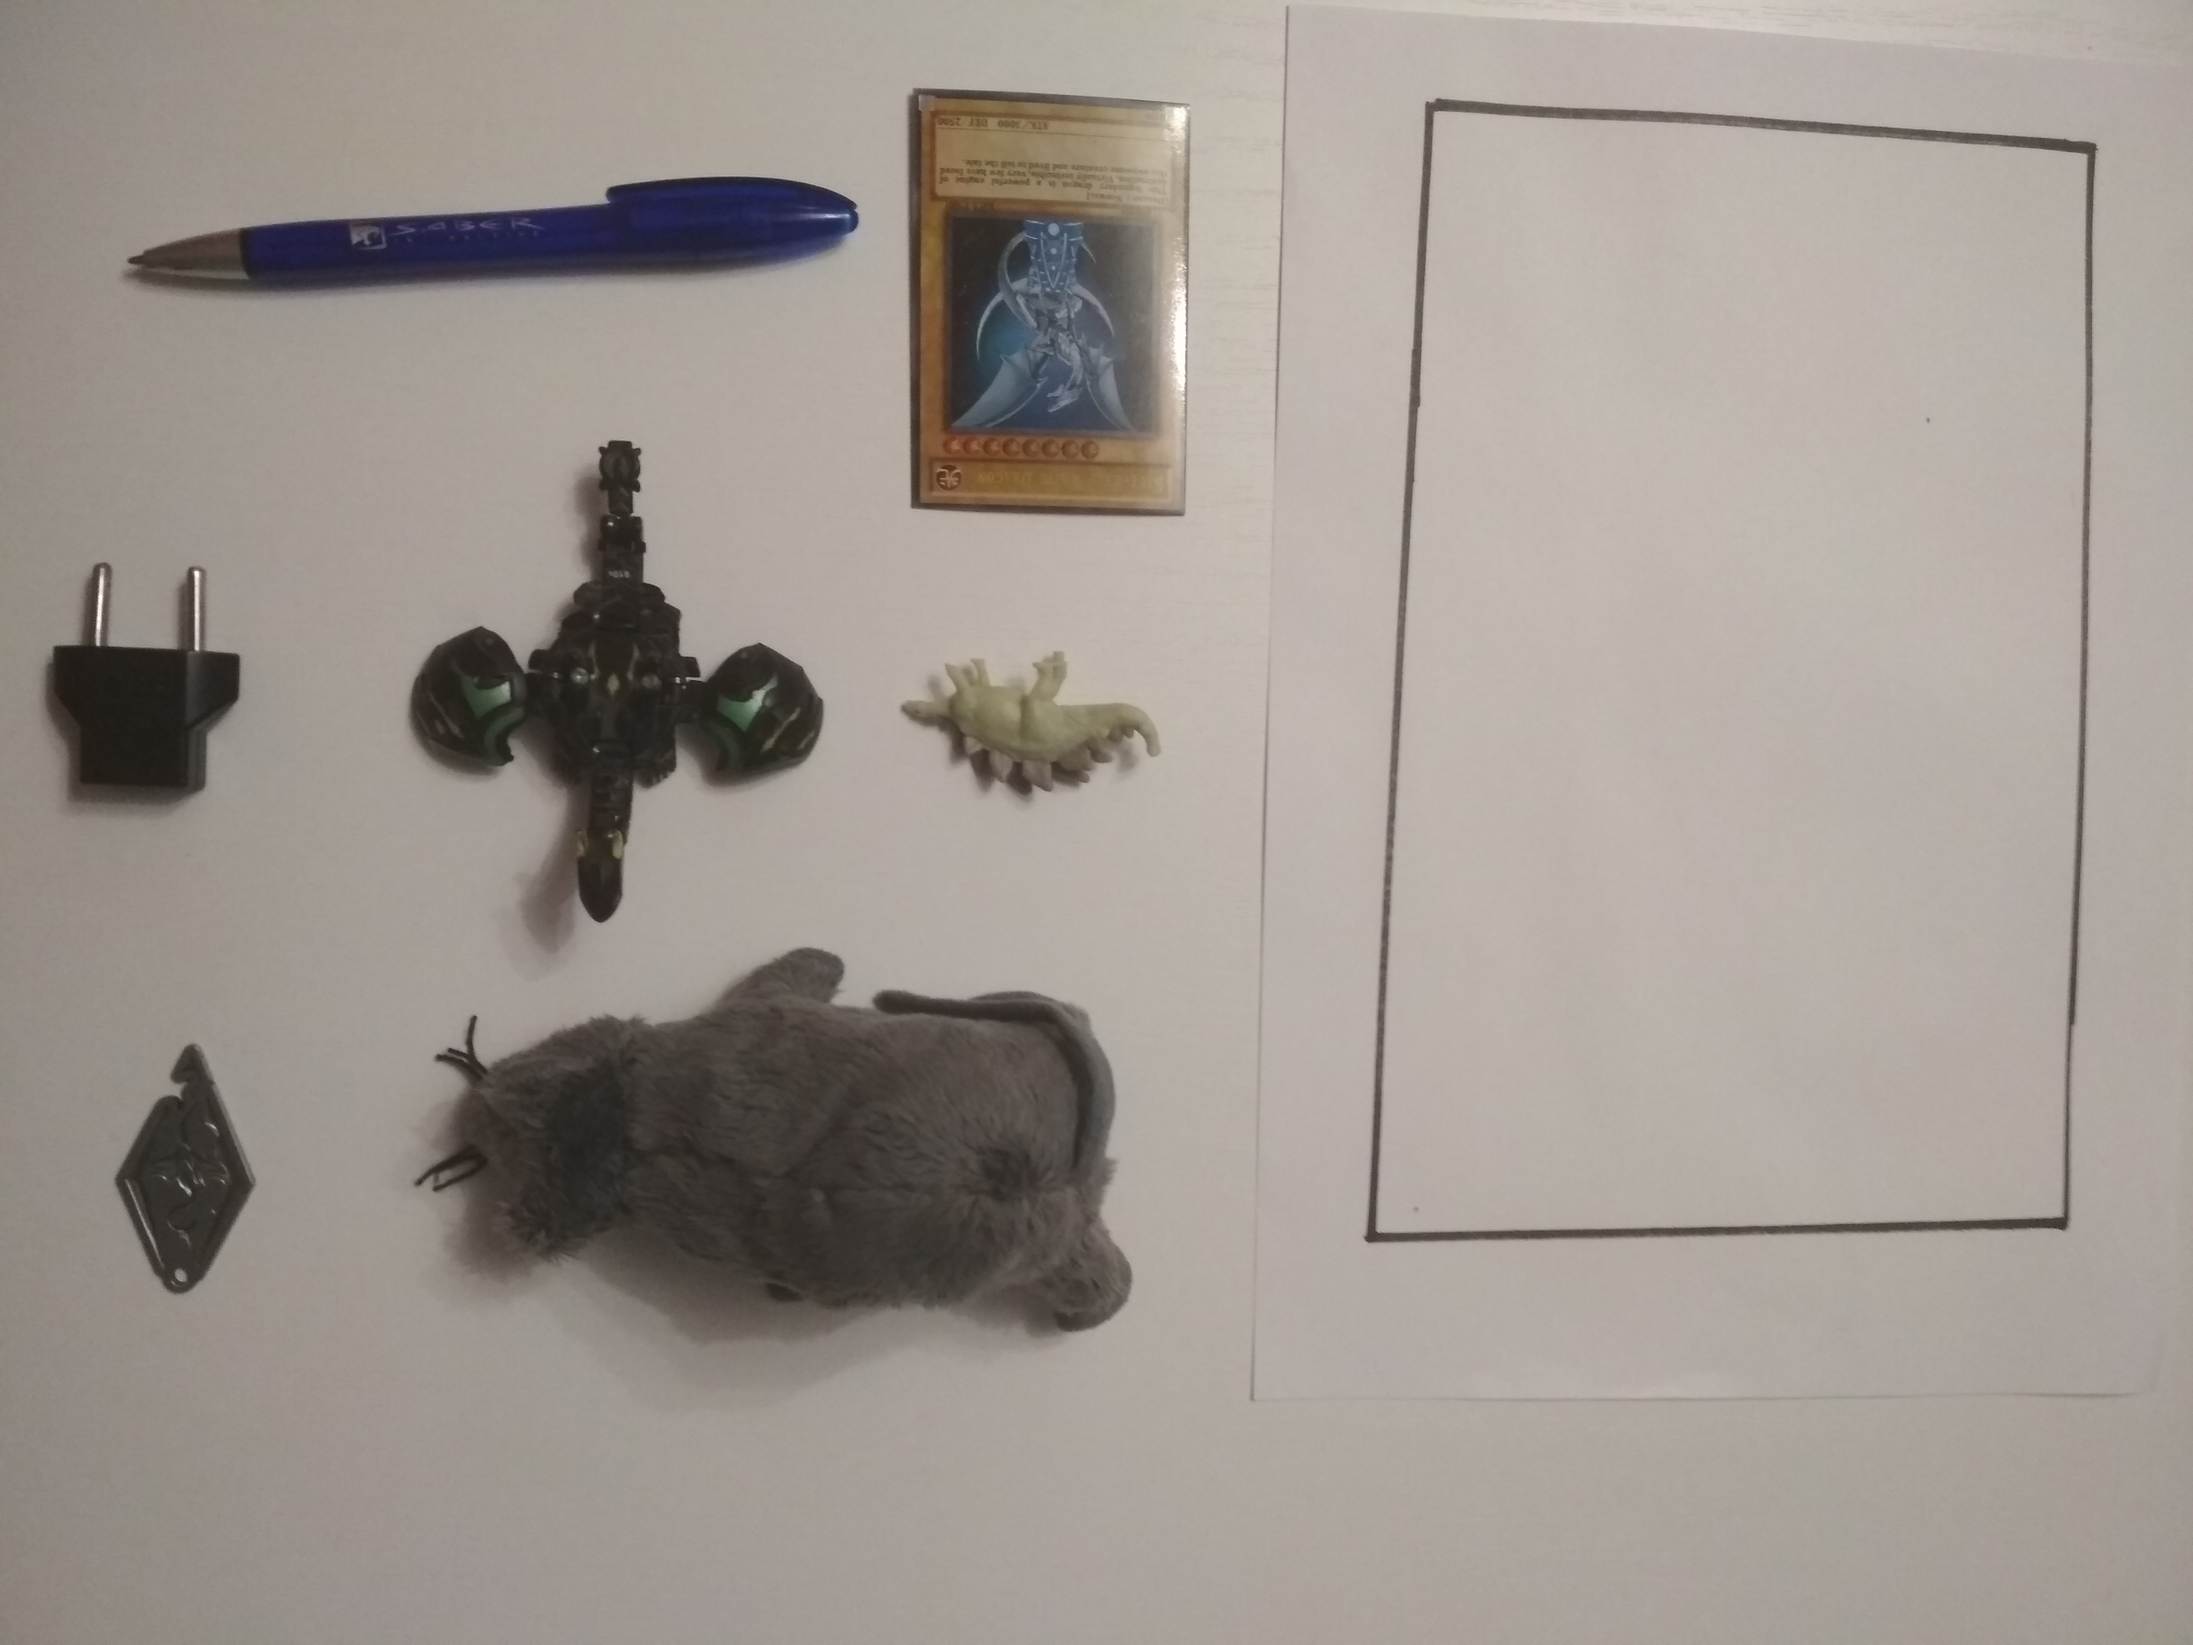
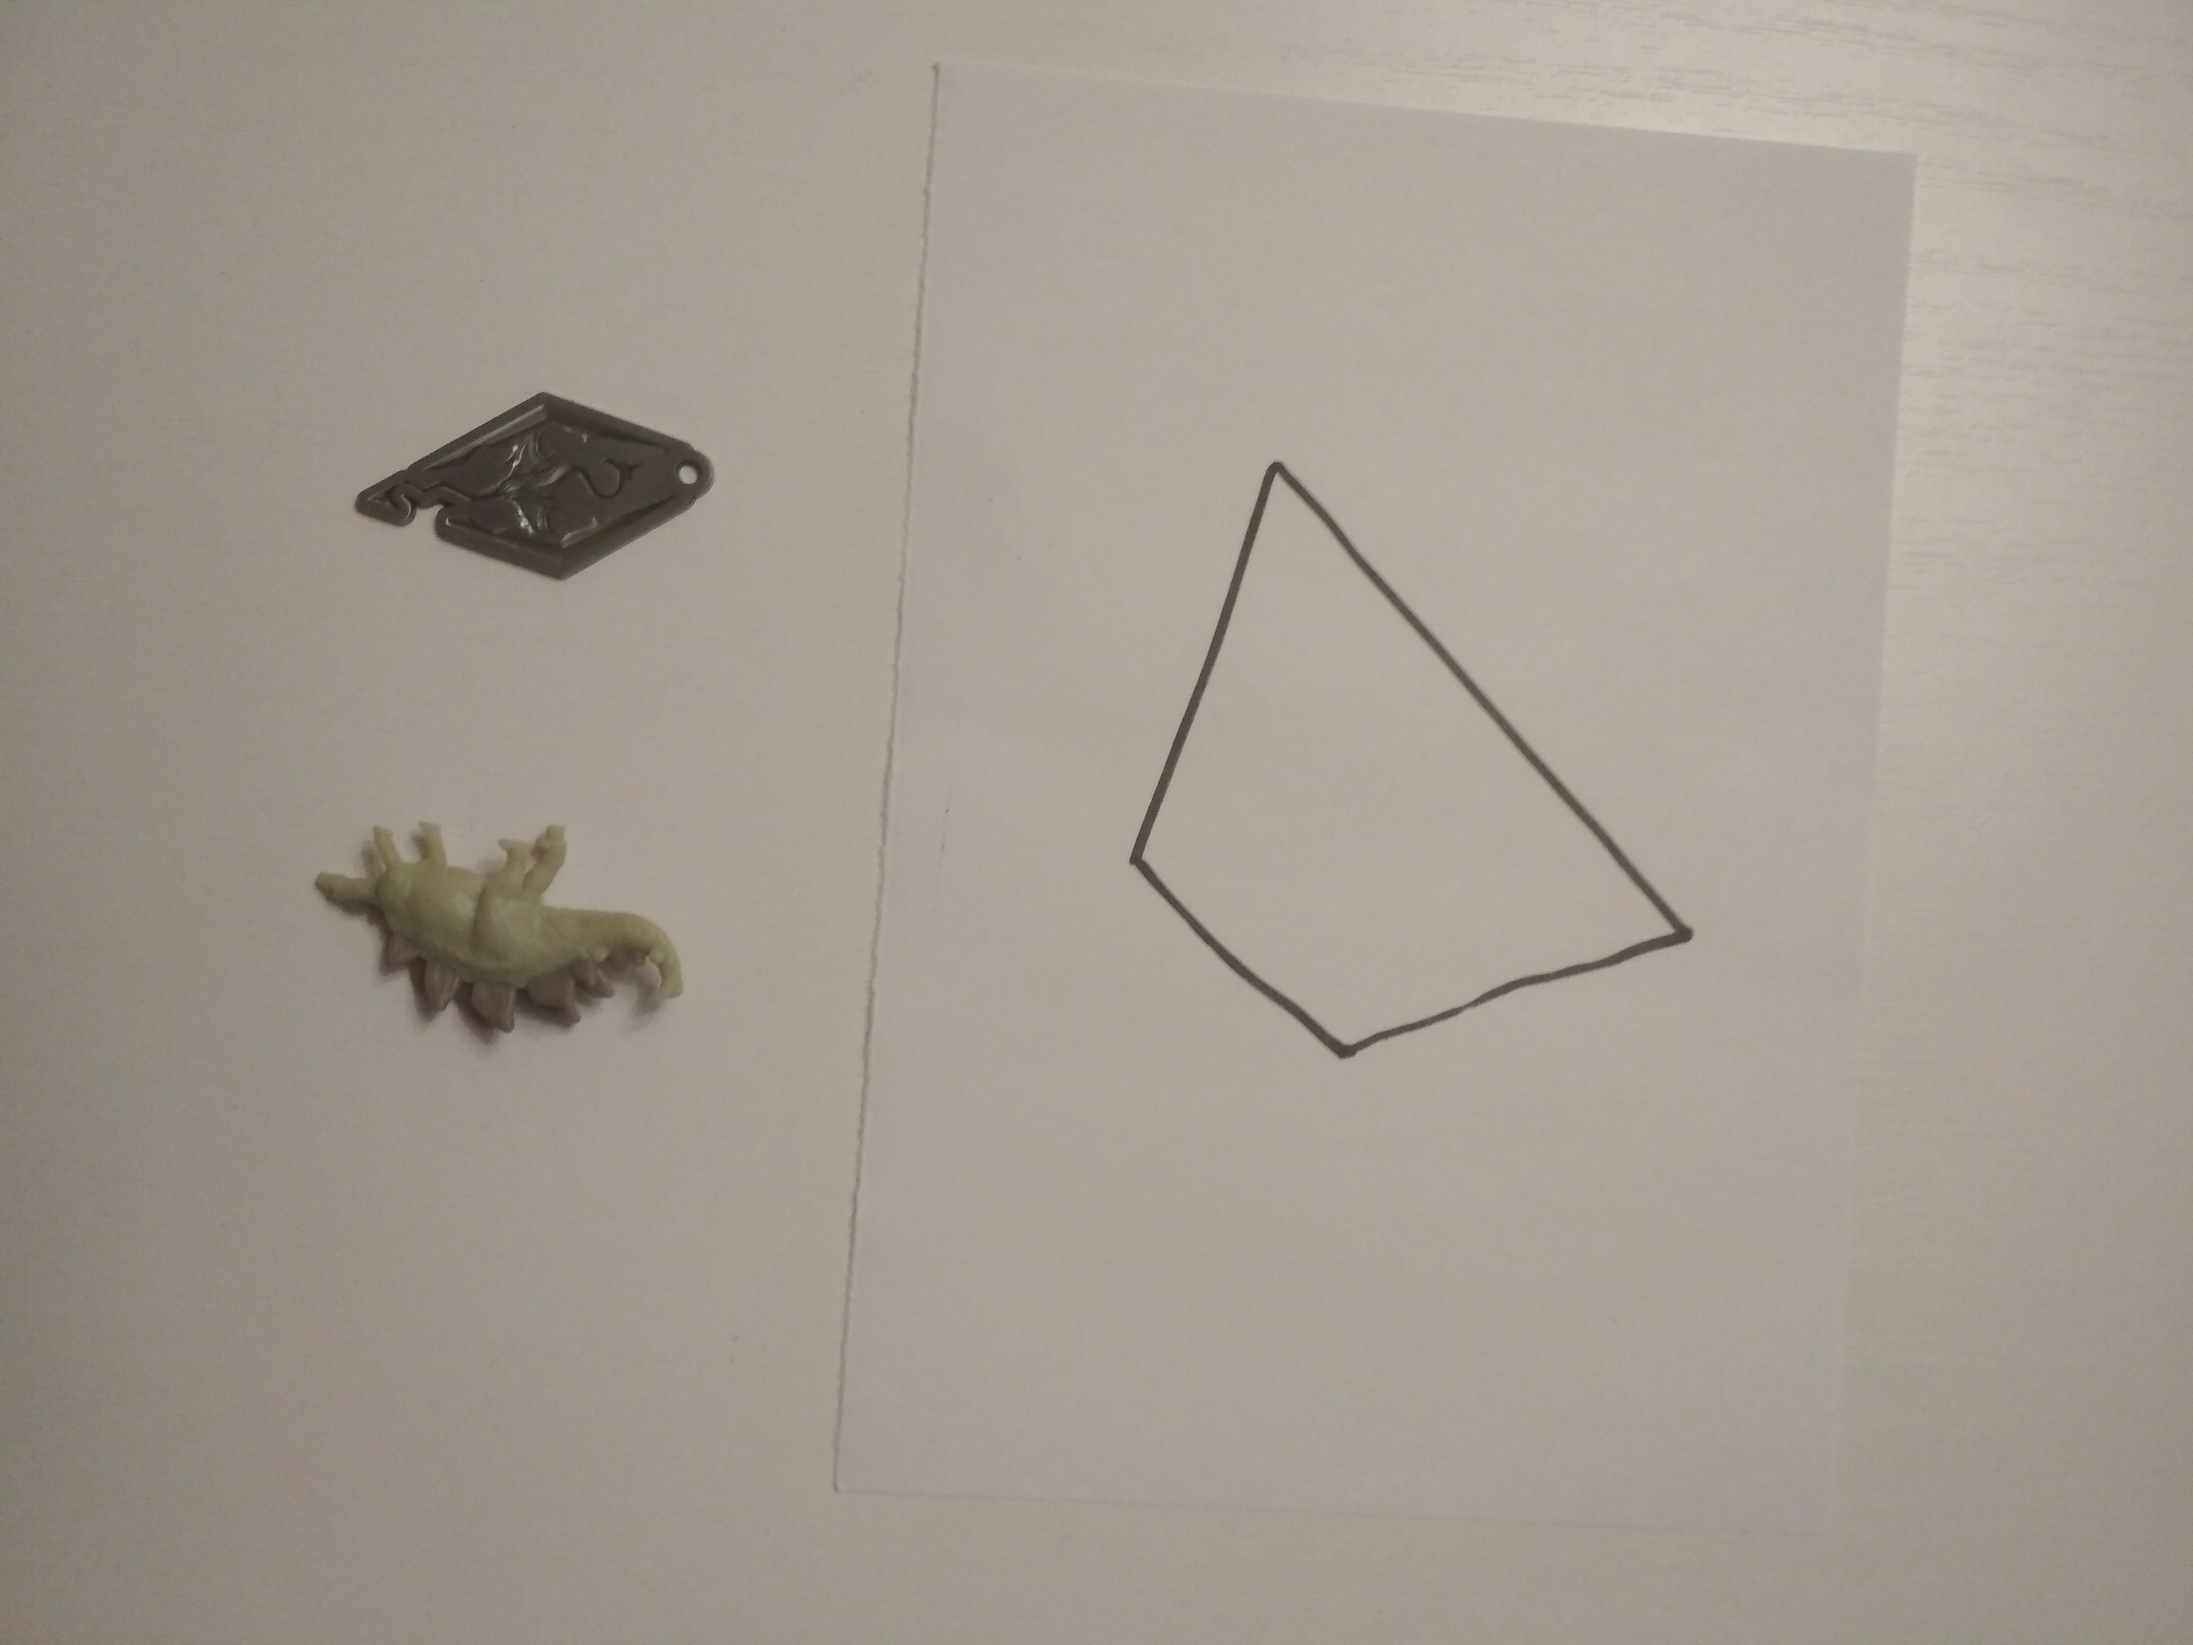
First iteration of algorithm

diff --git a/code/main.py b/code/main.py
@@ -3,6 +3,7 @@
 # Press Ctrl+F5 to execute it or replace it with your code.
 # Press Double Shift to search everywhere for classes, files, tool windows, actions, and settings.
 
+# plan
 # detect objs on imag
 #     binarize imag(ui)
 #     findConturs on mask (1obj = 1 contur)
@@ -106,6 +107,47 @@ def binarize(image):
 
     return cv2_image_from_imageio(my_edge_segmentation)
 
+
+def check_place(placement: np.ndarray):
+    err_cnt = 0
+    for el in placement.flat:
+        if el > 255:
+            err_cnt += 1
+            if err_cnt > placement.shape[0] * placement.shape[1] / 5000:
+                return False
+    return True
+
+
+def try_place(destination: np.ndarray, objects, idx):
+    trans = [0, 0]
+    object = objects[idx]
+    rows, cols = object.shape
+
+    print("new try")
+
+    for angle in range(180):
+        print(angle)
+        for half_trans_y in range(destination.shape[0] // 2):
+            for half_trans_x in range(destination.shape[1] // 2):
+                trans_y = 2 * half_trans_y
+                trans_x = 2 * half_trans_x
+                M = cv.getRotationMatrix2D(((cols - 1) / 2.0, (rows - 1) / 2.0), angle * 2, 1)
+                rotated_object = cv.warpAffine(object, M, (cols, rows))
+                copy = np.ones(shape = (destination.shape[0] + 2 * object.shape[0], destination.shape[1] + 2 * object.shape[1])) * 255
+                copy[object.shape[0]:object.shape[0] + destination.shape[0], object.shape[1]:object.shape[1] + destination.shape[1]] = destination
+                copy[trans_y + object.shape[0]:trans_y + 2 * object.shape[0],
+                trans_x + rotated_object.shape[1]:trans_x + 2 * rotated_object.shape[1]] \
+                    += rotated_object
+                if check_place(copy):
+                    if idx == len(objects) - 1:
+                        return copy
+                    else:
+                        rez = try_place(copy, objects, idx + 1)
+                        if rez is not None:
+                            return rez
+    return None
+
+
 # Press the green button in the gutter to run the script.
 if __name__ == '__main__':
     #load objects
@@ -114,7 +156,10 @@ if __name__ == '__main__':
     #find objects
     ref_bin_objects = [binarize(t) for t in ref_objects]
 
-    img = ref_bin_objects[3]
+    image = imageio.imread("../item_set/low/" + "2.jpg")
+    img = binarize(image)
+    cv.imshow('binarisation', img)
+
 
     #    for img in ref_bin_objects:
 #        plt.imshow(img)
@@ -132,7 +177,7 @@ if __name__ == '__main__':
     max_area = cv.contourArea(contours[0])
     for i in range(len(contours)):
         ariea = cv.contourArea(contours[i])
-        if hierarchy[0][i][3] != -1 or ariea <= 80:
+        if hierarchy[0][i][3] != -1 or ariea <= 200:
             continue
         if ariea > max_area:
             max_area, max_area_idx = ariea, len(rects)
@@ -144,7 +189,7 @@ if __name__ == '__main__':
         box = cv.boxPoints(rects[-1])
         box = np.int0(box)
         cv.drawContours(drawing, [box], 0, (0, 0, 255), 2)
-    del rects[max_area_idx]
+
     # Show in a window
     #rect[i] = ((rect[i][0][0], rect[i][0][1]), )
     cv.imshow('Contours', drawing)
@@ -155,8 +200,20 @@ if __name__ == '__main__':
         rotated_cnt = contours_filtered[len(textures) - 1]
         rotated_cnt = rotate_contour(rotated_cnt, -rec[2], rec[0], rec[1])
         cv.fillPoly(textures[-1], pts=[rotated_cnt], color=(255, 255, 255))
-    
-    cv.imshow("BlyaTex", textures[3])
+
+    polygon = textures.pop(max_area_idx)
+    polygon = (255 - polygon)
+    cv.imshow("poly", polygon)
+
+    placement = polygon
+    i = 0
+    placement = try_place(placement, textures, 0)
+#    cv.imshow("placement {idx}".format(idx=i), placement)
+    if placement is None:
+        print("cannot")
+
+    if placement is not None:
+        cv.imshow("placement", placement)
     cv.waitKey()
 
 
